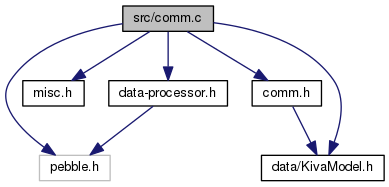
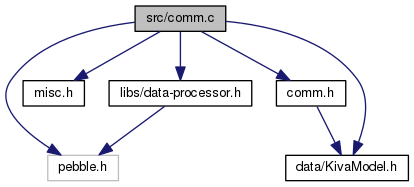
Update docs.

diff --git a/files.html b/files.html
@@ -97,7 +97,9 @@ var searchBox = new SearchBox("searchBox", "search",false,'Search');
 <tr id="row_0_1_0_" class="even"><td class="entry"><span style="width:48px;display:inline-block;">&#160;</span><span class="icondoc"></span><a class="el" href="app_8js.html" target="_self">app.js</a></td><td class="desc"></td></tr>
 <tr id="row_0_1_1_"><td class="entry"><span style="width:48px;display:inline-block;">&#160;</span><span class="icondoc"></span><a class="el" href="iso3166_8js.html" target="_self">iso3166.js</a></td><td class="desc"></td></tr>
 <tr id="row_0_2_" class="even"><td class="entry"><span style="width:16px;display:inline-block;">&#160;</span><span id="arr_0_2_" class="arrow" onclick="toggleFolder('0_2_')">&#9660;</span><span id="img_0_2_" class="iconfopen" onclick="toggleFolder('0_2_')">&#160;</span><a class="el" href="dir_87a455bccb09a92130c26a11a880c98a.html" target="_self">libs</a></td><td class="desc"></td></tr>
-<tr id="row_0_2_0_"><td class="entry"><span style="width:48px;display:inline-block;">&#160;</span><a href="uthash_8h_source.html"><span class="icondoc"></span></a><a class="el" href="uthash_8h.html" target="_self">uthash.h</a></td><td class="desc"></td></tr>
+<tr id="row_0_2_0_"><td class="entry"><span style="width:48px;display:inline-block;">&#160;</span><span class="icondoc"></span><a class="el" href="data-processor_8c.html" target="_self">data-processor.c</a></td><td class="desc"></td></tr>
+<tr id="row_0_2_1_" class="even"><td class="entry"><span style="width:48px;display:inline-block;">&#160;</span><a href="data-processor_8h_source.html"><span class="icondoc"></span></a><a class="el" href="data-processor_8h.html" target="_self">data-processor.h</a></td><td class="desc"></td></tr>
+<tr id="row_0_2_2_"><td class="entry"><span style="width:48px;display:inline-block;">&#160;</span><a href="uthash_8h_source.html"><span class="icondoc"></span></a><a class="el" href="uthash_8h.html" target="_self">uthash.h</a></td><td class="desc"></td></tr>
 <tr id="row_0_3_" class="even"><td class="entry"><span style="width:16px;display:inline-block;">&#160;</span><span id="arr_0_3_" class="arrow" onclick="toggleFolder('0_3_')">&#9660;</span><span id="img_0_3_" class="iconfopen" onclick="toggleFolder('0_3_')">&#160;</span><a class="el" href="dir_da5c6b39c0a2f54e57df6799511cd3ab.html" target="_self">ui</a></td><td class="desc"></td></tr>
 <tr id="row_0_3_0_"><td class="entry"><span style="width:48px;display:inline-block;">&#160;</span><span class="icondoc"></span><a class="el" href="lyr_digitime_8c.html" target="_self">lyrDigitime.c</a></td><td class="desc"></td></tr>
 <tr id="row_0_3_1_" class="even"><td class="entry"><span style="width:48px;display:inline-block;">&#160;</span><a href="lyr_digitime_8h_source.html"><span class="icondoc"></span></a><a class="el" href="lyr_digitime_8h.html" target="_self">lyrDigitime.h</a></td><td class="desc"></td></tr>
@@ -109,11 +111,9 @@ var searchBox = new SearchBox("searchBox", "search",false,'Search');
 <tr id="row_0_3_7_" class="even"><td class="entry"><span style="width:48px;display:inline-block;">&#160;</span><a href="wnd_main_menu_8h_source.html"><span class="icondoc"></span></a><a class="el" href="wnd_main_menu_8h.html" target="_self">wndMainMenu.h</a></td><td class="desc"></td></tr>
 <tr id="row_0_4_"><td class="entry"><span style="width:32px;display:inline-block;">&#160;</span><span class="icondoc"></span><a class="el" href="comm_8c.html" target="_self">comm.c</a></td><td class="desc"></td></tr>
 <tr id="row_0_5_" class="even"><td class="entry"><span style="width:32px;display:inline-block;">&#160;</span><a href="comm_8h_source.html"><span class="icondoc"></span></a><a class="el" href="comm_8h.html" target="_self">comm.h</a></td><td class="desc"></td></tr>
-<tr id="row_0_6_"><td class="entry"><span style="width:32px;display:inline-block;">&#160;</span><span class="icondoc"></span><a class="el" href="data-processor_8c.html" target="_self">data-processor.c</a></td><td class="desc"></td></tr>
-<tr id="row_0_7_" class="even"><td class="entry"><span style="width:32px;display:inline-block;">&#160;</span><a href="data-processor_8h_source.html"><span class="icondoc"></span></a><a class="el" href="data-processor_8h.html" target="_self">data-processor.h</a></td><td class="desc"></td></tr>
-<tr id="row_0_8_"><td class="entry"><span style="width:32px;display:inline-block;">&#160;</span><span class="icondoc"></span><a class="el" href="main_8c.html" target="_self">main.c</a></td><td class="desc"></td></tr>
-<tr id="row_0_9_" class="even"><td class="entry"><span style="width:32px;display:inline-block;">&#160;</span><span class="icondoc"></span><a class="el" href="misc_8c.html" target="_self">misc.c</a></td><td class="desc"></td></tr>
-<tr id="row_0_10_"><td class="entry"><span style="width:32px;display:inline-block;">&#160;</span><a href="misc_8h_source.html"><span class="icondoc"></span></a><a class="el" href="misc_8h.html" target="_self">misc.h</a></td><td class="desc"></td></tr>
+<tr id="row_0_6_"><td class="entry"><span style="width:32px;display:inline-block;">&#160;</span><span class="icondoc"></span><a class="el" href="main_8c.html" target="_self">main.c</a></td><td class="desc"></td></tr>
+<tr id="row_0_7_" class="even"><td class="entry"><span style="width:32px;display:inline-block;">&#160;</span><span class="icondoc"></span><a class="el" href="misc_8c.html" target="_self">misc.c</a></td><td class="desc"></td></tr>
+<tr id="row_0_8_"><td class="entry"><span style="width:32px;display:inline-block;">&#160;</span><a href="misc_8h_source.html"><span class="icondoc"></span></a><a class="el" href="misc_8h.html" target="_self">misc.h</a></td><td class="desc"></td></tr>
 </table>
 </div><!-- directory -->
 </div><!-- contents -->

diff --git a/data-processor_8h.html b/data-processor_8h.html
@@ -4,7 +4,7 @@
 <meta http-equiv="Content-Type" content="text/xhtml;charset=UTF-8"/>
 <meta http-equiv="X-UA-Compatible" content="IE=9"/>
 <meta name="generator" content="Doxygen 1.8.11"/>
-<title>Global Lender: src/data-processor.h File Reference</title>
+<title>Global Lender: src/libs/data-processor.h File Reference</title>
 <link href="tabs.css" rel="stylesheet" type="text/css"/>
 <script type="text/javascript" src="jquery.js"></script>
 <script type="text/javascript" src="dynsections.js"></script>
@@ -82,7 +82,7 @@ var searchBox = new SearchBox("searchBox", "search",false,'Search');
 
 <div id="nav-path" class="navpath">
   <ul>
-<li class="navelem"><a class="el" href="dir_68267d1309a1af8e8297ef4c3efbcdba.html">src</a></li>  </ul>
+<li class="navelem"><a class="el" href="dir_68267d1309a1af8e8297ef4c3efbcdba.html">src</a></li><li class="navelem"><a class="el" href="dir_87a455bccb09a92130c26a11a880c98a.html">libs</a></li>  </ul>
 </div>
 </div><!-- top -->
 <div class="header">
@@ -98,15 +98,17 @@ var searchBox = new SearchBox("searchBox", "search",false,'Search');
 </div><div class="textblock"><div class="dynheader">
 Include dependency graph for data-processor.h:</div>
 <div class="dyncontent">
-<div class="center"><img src="data-processor_8h__incl.png" border="0" usemap="#src_2data-processor_8h" alt=""/></div>
+<div class="center"><img src="data-processor_8h__incl.png" border="0" usemap="#src_2libs_2data-processor_8h" alt=""/></div>
+<map name="src_2libs_2data-processor_8h" id="src_2libs_2data-processor_8h">
+</map>
 </div>
 </div><div class="textblock"><div class="dynheader">
 This graph shows which files directly or indirectly include this file:</div>
 <div class="dyncontent">
-<div class="center"><img src="data-processor_8h__dep__incl.png" border="0" usemap="#src_2data-processor_8hdep" alt=""/></div>
-<map name="src_2data-processor_8hdep" id="src_2data-processor_8hdep">
+<div class="center"><img src="data-processor_8h__dep__incl.png" border="0" usemap="#src_2libs_2data-processor_8hdep" alt=""/></div>
+<map name="src_2libs_2data-processor_8hdep" id="src_2libs_2data-processor_8hdep">
 <area shape="rect" id="node2" href="comm_8c.html" title="src/comm.c" alt="" coords="5,80,96,107"/>
-<area shape="rect" id="node3" href="data-processor_8c.html" title="src/data&#45;processor.c" alt="" coords="120,80,261,107"/>
+<area shape="rect" id="node3" href="data-processor_8c.html" title="src/libs/data&#45;processor.c" alt="" coords="120,80,285,107"/>
 </map>
 </div>
 </div>

diff --git a/data-processor_8c.html b/data-processor_8c.html
@@ -4,7 +4,7 @@
 <meta http-equiv="Content-Type" content="text/xhtml;charset=UTF-8"/>
 <meta http-equiv="X-UA-Compatible" content="IE=9"/>
 <meta name="generator" content="Doxygen 1.8.11"/>
-<title>Global Lender: src/data-processor.c File Reference</title>
+<title>Global Lender: src/libs/data-processor.c File Reference</title>
 <link href="tabs.css" rel="stylesheet" type="text/css"/>
 <script type="text/javascript" src="jquery.js"></script>
 <script type="text/javascript" src="dynsections.js"></script>
@@ -82,7 +82,7 @@ var searchBox = new SearchBox("searchBox", "search",false,'Search');
 
 <div id="nav-path" class="navpath">
   <ul>
-<li class="navelem"><a class="el" href="dir_68267d1309a1af8e8297ef4c3efbcdba.html">src</a></li>  </ul>
+<li class="navelem"><a class="el" href="dir_68267d1309a1af8e8297ef4c3efbcdba.html">src</a></li><li class="navelem"><a class="el" href="dir_87a455bccb09a92130c26a11a880c98a.html">libs</a></li>  </ul>
 </div>
 </div><!-- top -->
 <div class="header">
@@ -98,9 +98,9 @@ var searchBox = new SearchBox("searchBox", "search",false,'Search');
 </div><div class="textblock"><div class="dynheader">
 Include dependency graph for data-processor.c:</div>
 <div class="dyncontent">
-<div class="center"><img src="data-processor_8c__incl.png" border="0" usemap="#src_2data-processor_8c" alt=""/></div>
-<map name="src_2data-processor_8c" id="src_2data-processor_8c">
-<area shape="rect" id="node3" href="data-processor_8h.html" title="data&#45;processor.h" alt="" coords="66,80,185,107"/>
+<div class="center"><img src="data-processor_8c__incl.png" border="0" usemap="#src_2libs_2data-processor_8c" alt=""/></div>
+<map name="src_2libs_2data-processor_8c" id="src_2libs_2data-processor_8c">
+<area shape="rect" id="node3" href="data-processor_8h.html" title="data&#45;processor.h" alt="" coords="78,80,197,107"/>
 </map>
 </div>
 </div><table class="memberdecls">

diff --git a/comm_8c.html b/comm_8c.html
@@ -96,16 +96,16 @@ var searchBox = new SearchBox("searchBox", "search",false,'Search');
 <code>#include &quot;<a class="el" href="misc_8h_source.html">misc.h</a>&quot;</code><br />
 <code>#include &quot;<a class="el" href="comm_8h_source.html">comm.h</a>&quot;</code><br />
 <code>#include &quot;<a class="el" href="_kiva_model_8h_source.html">data/KivaModel.h</a>&quot;</code><br />
-<code>#include &quot;<a class="el" href="data-processor_8h_source.html">data-processor.h</a>&quot;</code><br />
+<code>#include &quot;<a class="el" href="data-processor_8h_source.html">libs/data-processor.h</a>&quot;</code><br />
 </div><div class="textblock"><div class="dynheader">
 Include dependency graph for comm.c:</div>
 <div class="dyncontent">
 <div class="center"><img src="comm_8c__incl.png" border="0" usemap="#src_2comm_8c" alt=""/></div>
 <map name="src_2comm_8c" id="src_2comm_8c">
 <area shape="rect" id="node3" href="misc_8h.html" title="misc.h" alt="" coords="23,80,84,107"/>
-<area shape="rect" id="node4" href="comm_8h.html" title="comm.h" alt="" coords="252,80,321,107"/>
-<area shape="rect" id="node5" href="_kiva_model_8h.html" title="data/KivaModel.h" alt="" coords="261,155,384,181"/>
-<area shape="rect" id="node6" href="data-processor_8h.html" title="data&#45;processor.h" alt="" coords="109,80,227,107"/>
+<area shape="rect" id="node4" href="comm_8h.html" title="comm.h" alt="" coords="276,80,346,107"/>
+<area shape="rect" id="node5" href="_kiva_model_8h.html" title="data/KivaModel.h" alt="" coords="286,155,408,181"/>
+<area shape="rect" id="node6" href="data-processor_8h.html" title="libs/data&#45;processor.h" alt="" coords="109,80,252,107"/>
 </map>
 </div>
 </div><table class="memberdecls">

diff --git a/dir_68267d1309a1af8e8297ef4c3efbcdba.html b/dir_68267d1309a1af8e8297ef4c3efbcdba.html
@@ -124,10 +124,6 @@ Files</h2></td></tr>
 <tr class="separator:"><td class="memSeparator" colspan="2">&#160;</td></tr>
 <tr class="memitem:comm_8h"><td class="memItemLeft" align="right" valign="top">file &#160;</td><td class="memItemRight" valign="bottom"><a class="el" href="comm_8h.html">comm.h</a> <a href="comm_8h_source.html">[code]</a></td></tr>
 <tr class="separator:"><td class="memSeparator" colspan="2">&#160;</td></tr>
-<tr class="memitem:data-processor_8c"><td class="memItemLeft" align="right" valign="top">file &#160;</td><td class="memItemRight" valign="bottom"><a class="el" href="data-processor_8c.html">data-processor.c</a></td></tr>
-<tr class="separator:"><td class="memSeparator" colspan="2">&#160;</td></tr>
-<tr class="memitem:data-processor_8h"><td class="memItemLeft" align="right" valign="top">file &#160;</td><td class="memItemRight" valign="bottom"><a class="el" href="data-processor_8h.html">data-processor.h</a> <a href="data-processor_8h_source.html">[code]</a></td></tr>
-<tr class="separator:"><td class="memSeparator" colspan="2">&#160;</td></tr>
 <tr class="memitem:main_8c"><td class="memItemLeft" align="right" valign="top">file &#160;</td><td class="memItemRight" valign="bottom"><a class="el" href="main_8c.html">main.c</a></td></tr>
 <tr class="separator:"><td class="memSeparator" colspan="2">&#160;</td></tr>
 <tr class="memitem:misc_8c"><td class="memItemLeft" align="right" valign="top">file &#160;</td><td class="memItemRight" valign="bottom"><a class="el" href="misc_8c.html">misc.c</a></td></tr>

diff --git a/dir_87a455bccb09a92130c26a11a880c98a.html b/dir_87a455bccb09a92130c26a11a880c98a.html
@@ -93,6 +93,10 @@ var searchBox = new SearchBox("searchBox", "search",false,'Search');
 <table class="memberdecls">
 <tr class="heading"><td colspan="2"><h2 class="groupheader"><a name="files"></a>
 Files</h2></td></tr>
+<tr class="memitem:data-processor_8c"><td class="memItemLeft" align="right" valign="top">file &#160;</td><td class="memItemRight" valign="bottom"><a class="el" href="data-processor_8c.html">data-processor.c</a></td></tr>
+<tr class="separator:"><td class="memSeparator" colspan="2">&#160;</td></tr>
+<tr class="memitem:data-processor_8h"><td class="memItemLeft" align="right" valign="top">file &#160;</td><td class="memItemRight" valign="bottom"><a class="el" href="data-processor_8h.html">data-processor.h</a> <a href="data-processor_8h_source.html">[code]</a></td></tr>
+<tr class="separator:"><td class="memSeparator" colspan="2">&#160;</td></tr>
 <tr class="memitem:uthash_8h"><td class="memItemLeft" align="right" valign="top">file &#160;</td><td class="memItemRight" valign="bottom"><a class="el" href="uthash_8h.html">uthash.h</a> <a href="uthash_8h_source.html">[code]</a></td></tr>
 <tr class="separator:"><td class="memSeparator" colspan="2">&#160;</td></tr>
 </table>

diff --git a/data-processor_8h_source.html b/data-processor_8h_source.html
@@ -4,7 +4,7 @@
 <meta http-equiv="Content-Type" content="text/xhtml;charset=UTF-8"/>
 <meta http-equiv="X-UA-Compatible" content="IE=9"/>
 <meta name="generator" content="Doxygen 1.8.11"/>
-<title>Global Lender: src/data-processor.h Source File</title>
+<title>Global Lender: src/libs/data-processor.h Source File</title>
 <link href="tabs.css" rel="stylesheet" type="text/css"/>
 <script type="text/javascript" src="jquery.js"></script>
 <script type="text/javascript" src="dynsections.js"></script>
@@ -82,7 +82,7 @@ var searchBox = new SearchBox("searchBox", "search",false,'Search');
 
 <div id="nav-path" class="navpath">
   <ul>
-<li class="navelem"><a class="el" href="dir_68267d1309a1af8e8297ef4c3efbcdba.html">src</a></li>  </ul>
+<li class="navelem"><a class="el" href="dir_68267d1309a1af8e8297ef4c3efbcdba.html">src</a></li><li class="navelem"><a class="el" href="dir_87a455bccb09a92130c26a11a880c98a.html">libs</a></li>  </ul>
 </div>
 </div><!-- top -->
 <div class="header">

diff --git a/struct_processing_state.html b/struct_processing_state.html
@@ -137,7 +137,7 @@ Data Fields</h2></td></tr>
 </div>
 </div>
 <hr/>The documentation for this struct was generated from the following file:<ul>
-<li>src/<a class="el" href="data-processor_8c.html">data-processor.c</a></li>
+<li>src/libs/<a class="el" href="data-processor_8c.html">data-processor.c</a></li>
 </ul>
 </div><!-- contents -->
 <!-- start footer part -->
